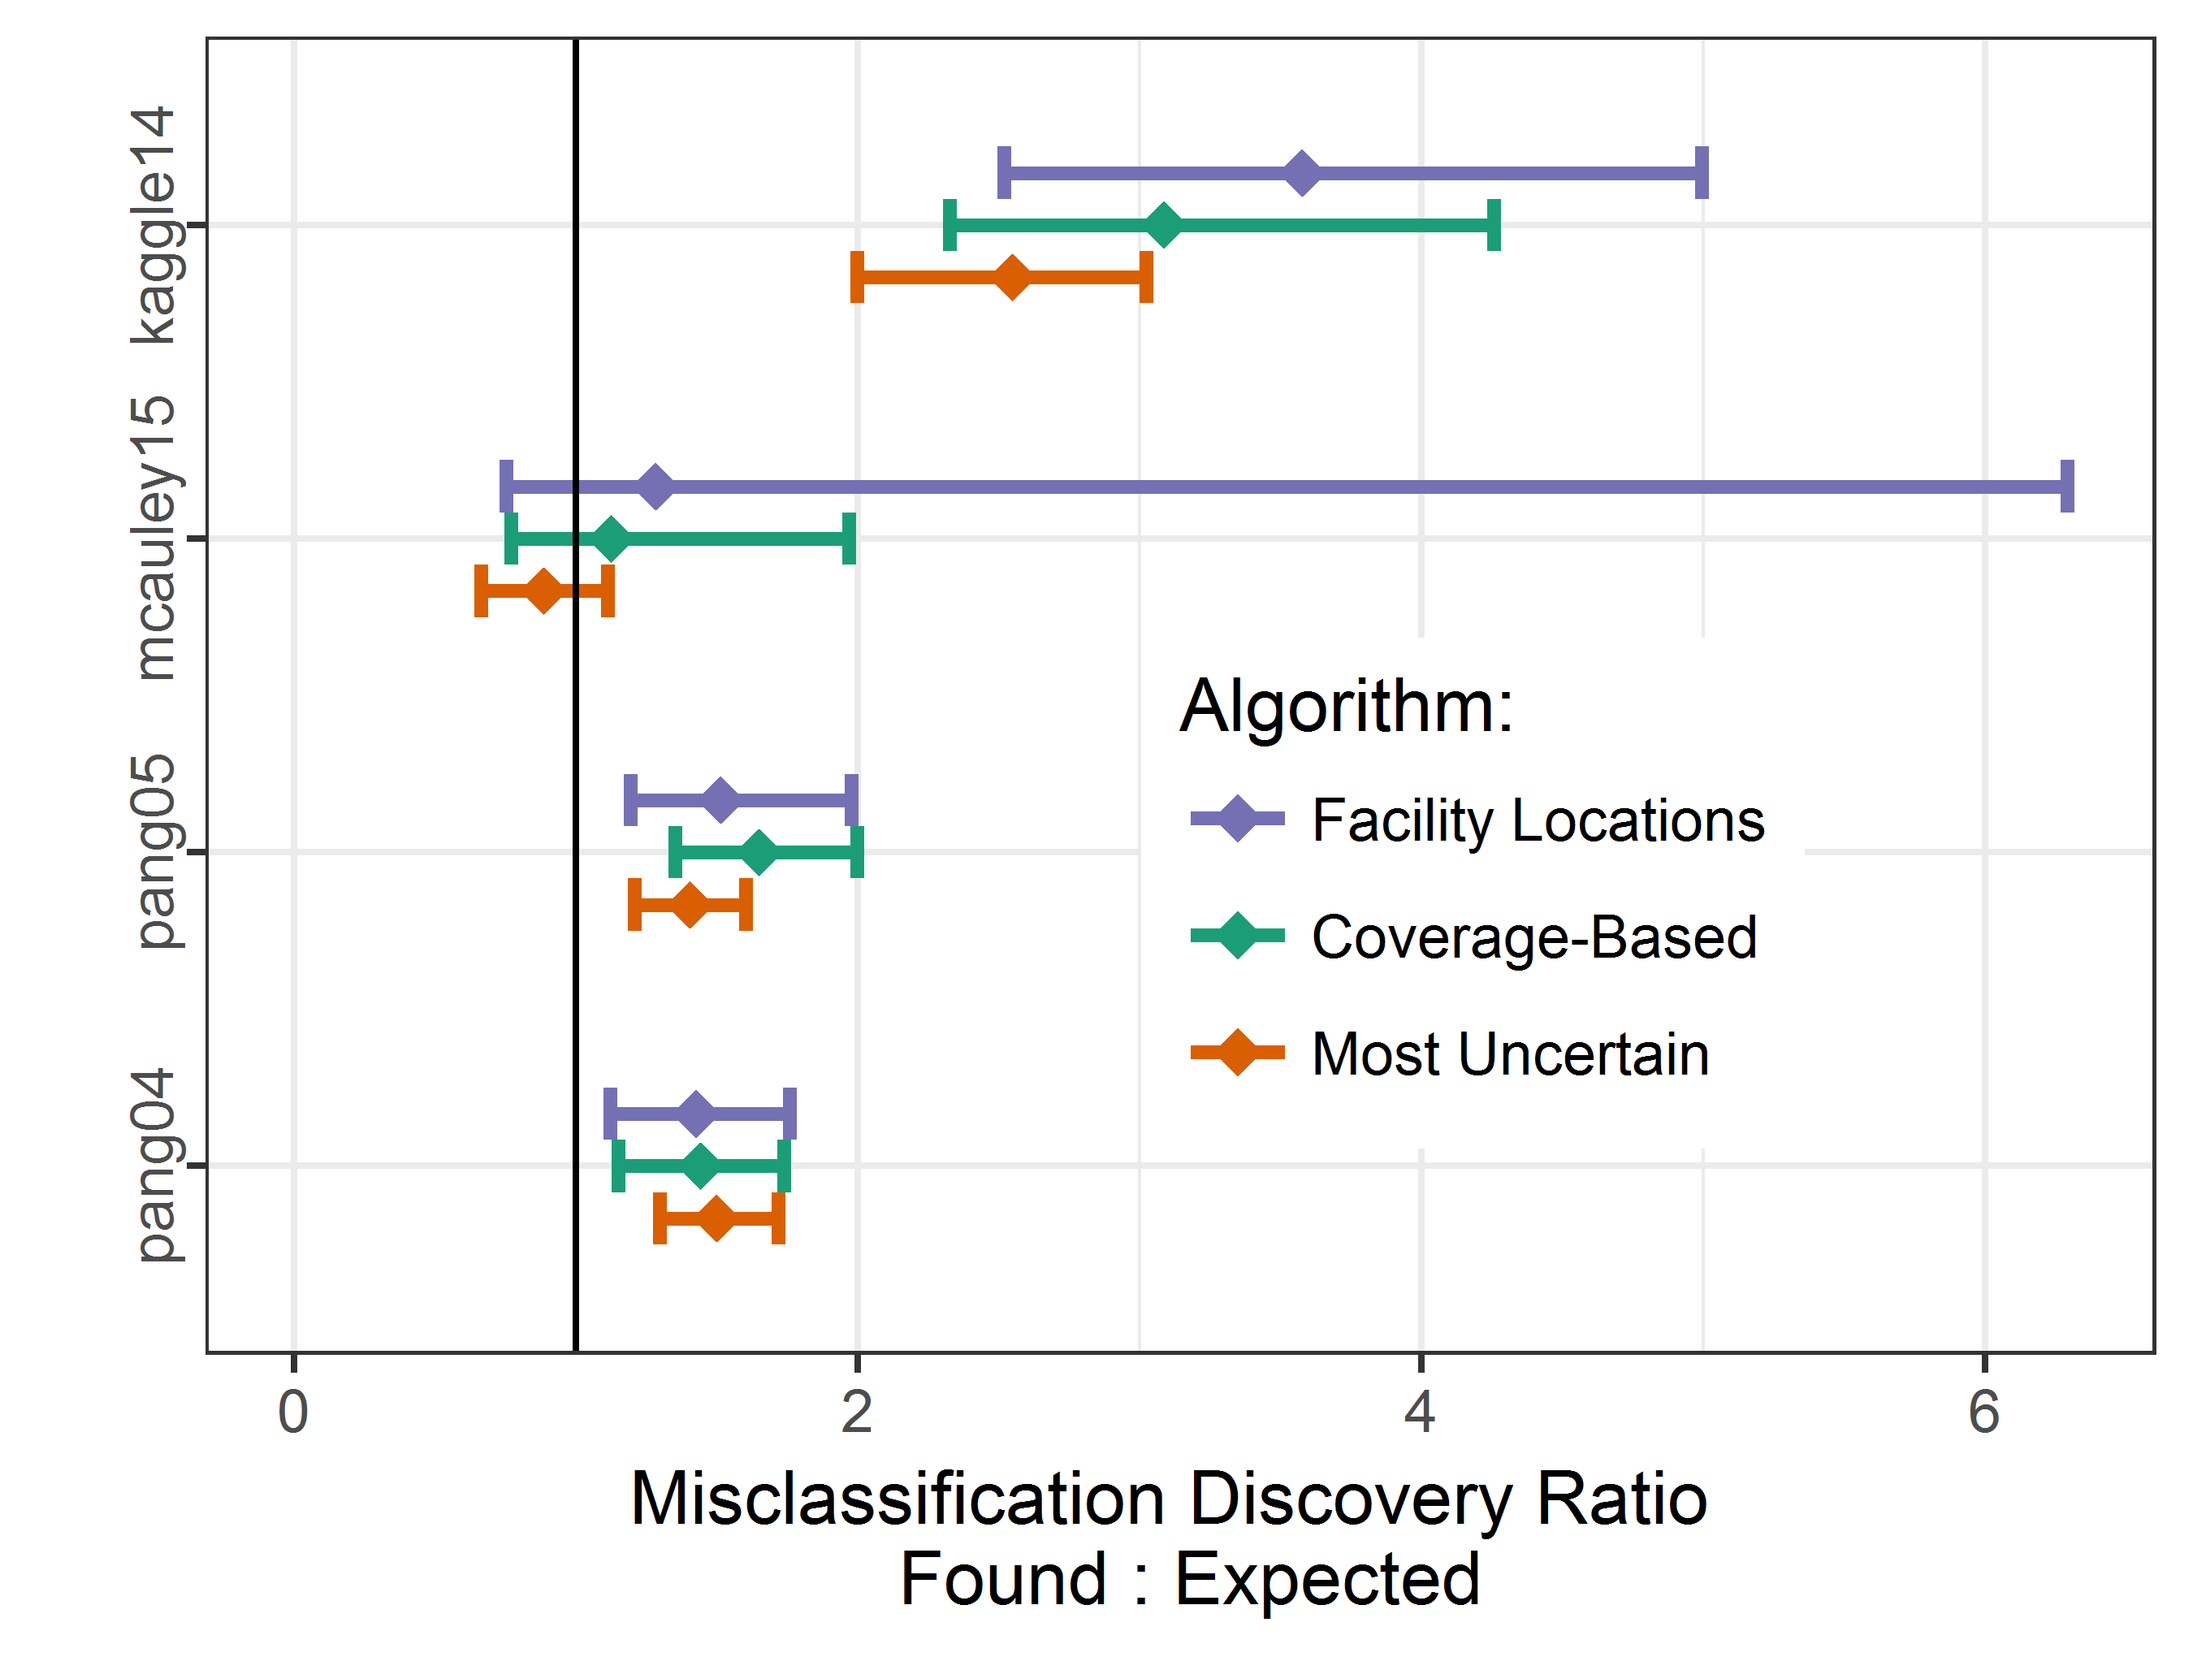
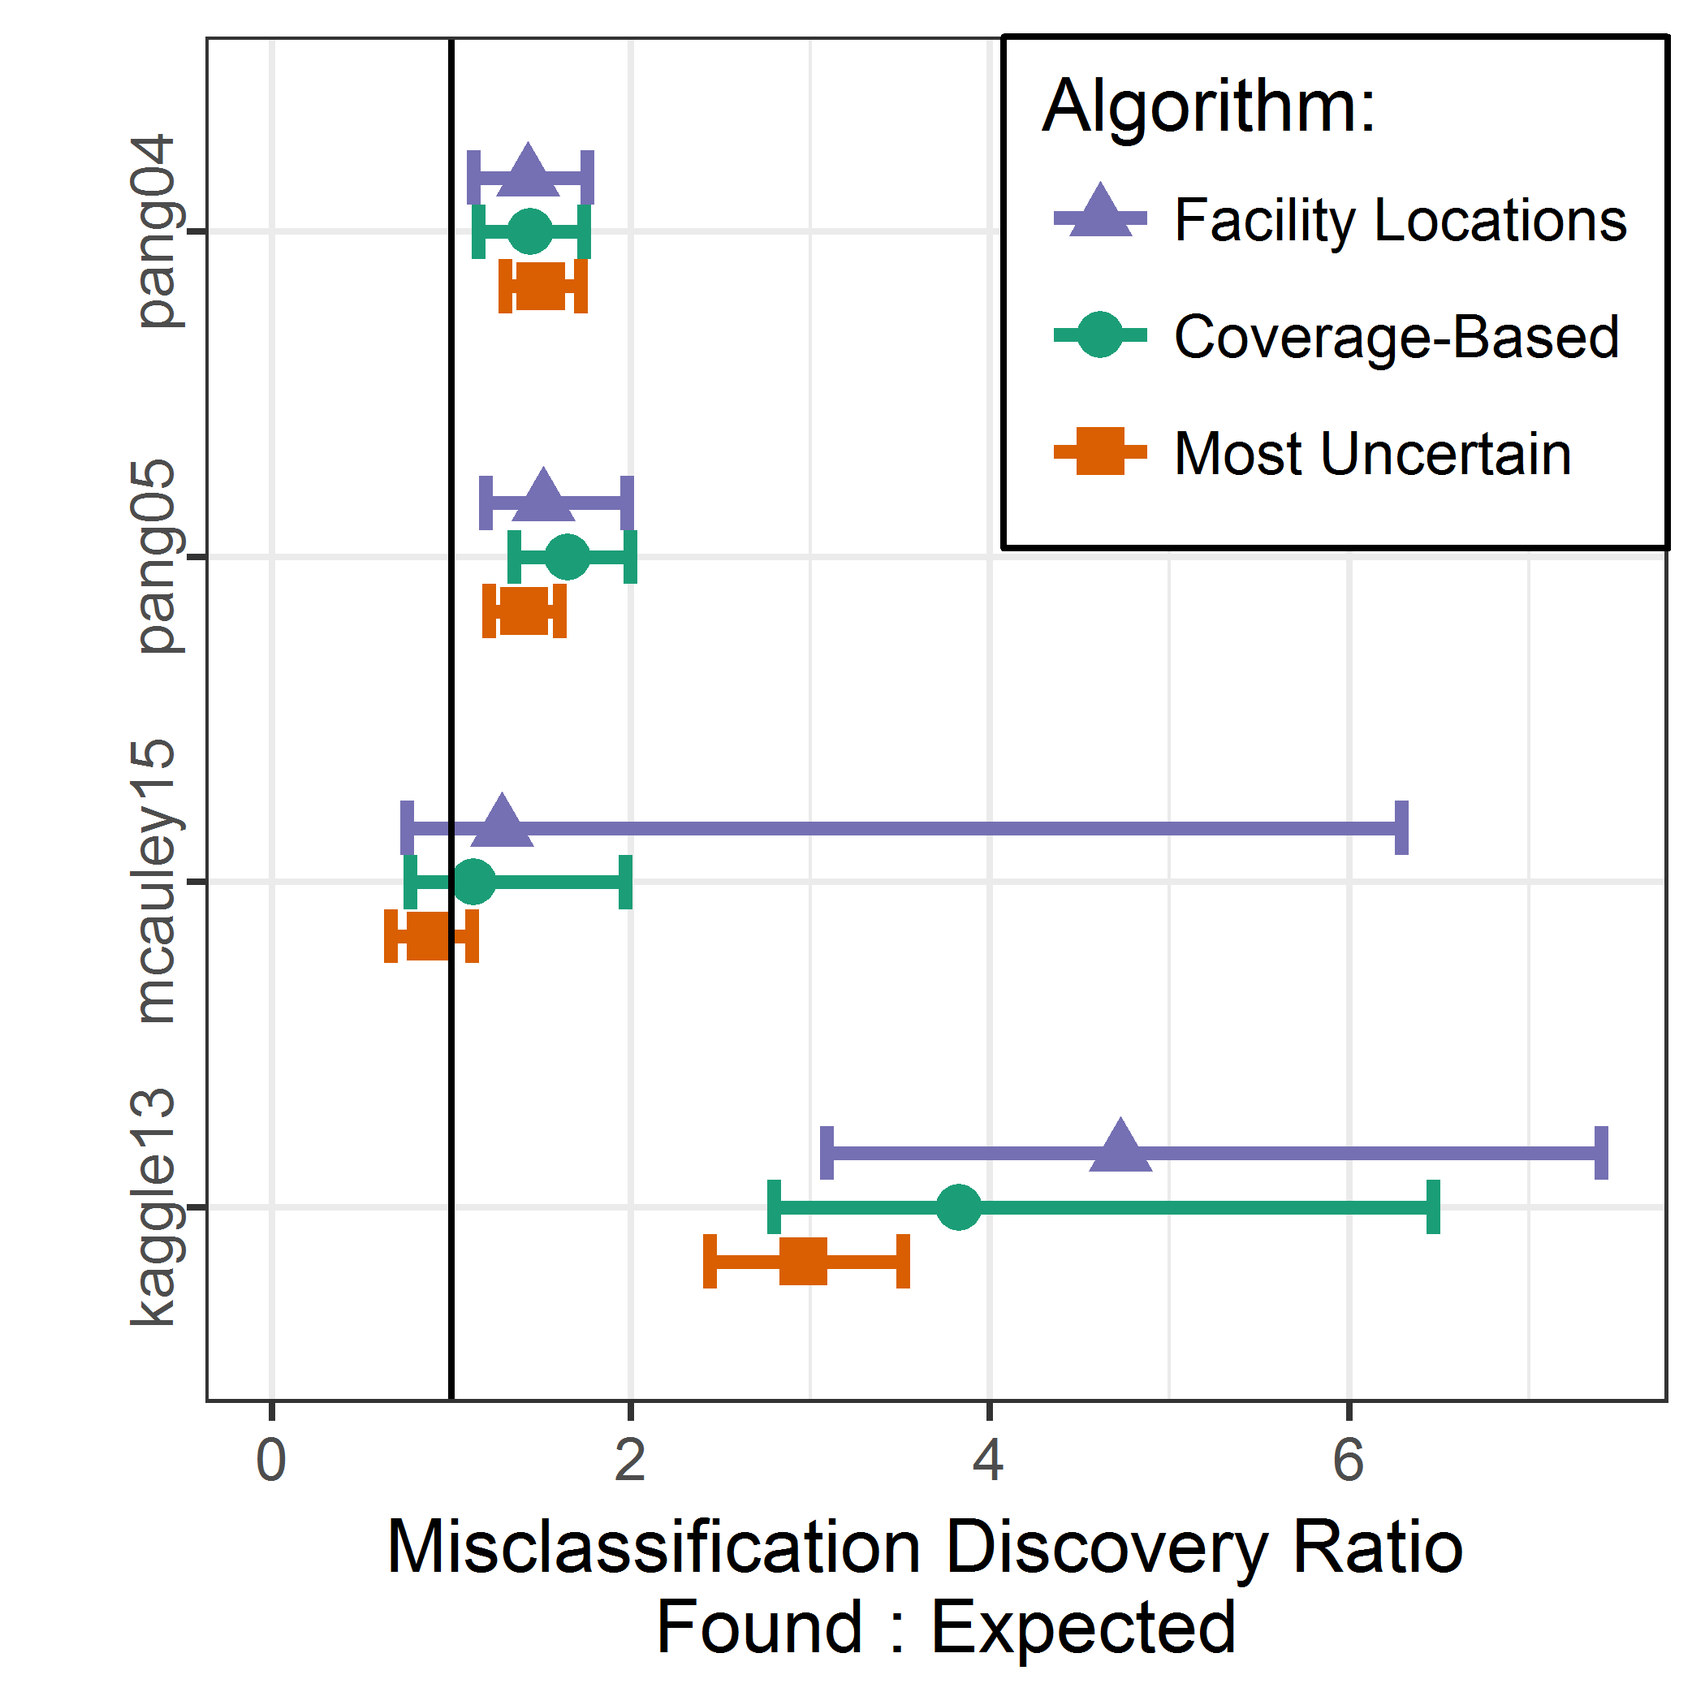
results revision

Changed region(s): [[0.0619, 0.0, 0.9905, 0.9882], [0.5262, 0.5559, 0.8048, 0.5868]]

diff --git a/writeups/AAAI/build/MaurerBennetteAAAI.tex b/writeups/AAAI/build/MaurerBennetteAAAI.tex
@@ -185,7 +185,7 @@ We empirically evaluate our facility location utility model by applying Algorith
 
 Figure~\ref{fig:overconf} displays the overconfidence of the models using a cubic-splines fitted between the indicator of correct classification an the confidence value in each test dataset to obtain an empirical estimates of the true rates of correct classification. We see that the models from the Pang04 and Pang05 datasets are most overconfident for points with relatively low confidence values, thus we would expect the a simple sequential search of the most-uncertain points to provide high facility locations utility in these cases. Whereas the predictions for McCauley15 and Kaggle14 are most overconfident in the highest confidence range, thus the most-uncertain search should provide low facility locations utility in these cases. We see that these four data sets represent fairly different profiles of overconfidence, thus present good variety for evaluating characteristics of the facility locations utility model. 
 
-\km{As with the evaluation of the coverage-based utility, we run the facility locations queries with on 1000 random samples of size n=1000 from each of the datasets, using a budget B=100. In the following subsections we detail three evaluations of the proposed methods: the utility outcomes of the facility locations queries in comparison to the most-uncertain search method, separating the reward and distance components facility locations searches, and exploring the relative efficiency of queries to discover overconfident points.}
+\km{As with the evaluation of the coverage-based utility, we run the facility locations queries with on 1000 random samples of size n=1000 from each of the datasets, using a budget B=100. In the following subsections we evaluate the utility outcomes of the facility locations queries in comparison to the most-uncertain search method, and exploring the relative efficiency of queries to discover overconfident points.}
 
 \subsection{Facility Location Utility Outcomes}
 
@@ -200,32 +200,13 @@ To evaluate the queries generated by the facility locations utility model we col
 
 In Figure~\ref{fig:flutil}, we see that the most-uncertain selection method – that begins its search with points with confidence values just above $\tau$=.65 – provides the strongest utility for the pang04 case, as is desired, because these points are also shown to be most overconfident. The facility locations utility outcomes from using the logistic-based optimization were typically slightly lower. For the pang05 case where the overconfidence is skewed right but relatively ubiquitous, we again find very comparable utility between the logistic-based and the most-uncertain queries. For the mcauley15 where overconfidence is heavily skewed left, we now see inconsistent but strong facility location utility outcomes from the facility locations search, and consistently low utility outcomes from the most-uncertain queries. \km{In the last case of kaggle14 where the overconfidence is skewed left but relatively ubiquitous, the facility locations search provided less consistent, but typically stronger utility than most-uncertain searches}. 
 
-\subsection{Separating Utility Components}
- 
-\km{explore distance vs reward components here}
-
 \subsection{Efficient Discovery of Overconfidence}
 
-Lastly we compare the queries gathered by the coverage-based utility algorithm and facility locations utility algorithm. Given that both rely on greedy selection relative to their own utility function, it does not make sense to compare their selections on the utility values directly. Instead we compare the efficiency of the search for UUs, using a summary statistics that we call the \textit{standardized discovery ratio} (SDR). The SDR is an adaptation of the \textit{standardized mortality ratio} used in biostatistics to evaluate the mortality rate for a given sample of patients, which standardizing using their initial risk of death (\km{Bernard and Rosner, 1990; Taylor, 2013}). In our case we use an analog that evalues the misclassification rate, standardized by the initial model confidence. The SDR for a set of queried points is computed as
+Secondly, we compare the queries gathered by the coverage-based utility algorithm and facility locations utility algorithm. Given that both rely on greedy selection optimized relative to their own utility function, it does not make sense to compare their selections on the utility values directly. Instead we compare the efficiency of the search for UUs, using a summary statistics that we call the \textit{standardized discovery ratio} (SDR). The SDR is an adaptation of the \textit{standardized mortality ratio} used in biostatistics to evaluate the mortality rate for a given sample of patients, which standardizing using their initial risk of death (\km{Bernard and Rosner, 1990; Taylor, 2013}). In our case we use an analog that evalues the misclassification rate, standardized by the initial model confidence. The SDR is computed as
+$$ ||S|| / \sum_{x=1}^B(1- c_x) $$
+thus counting the number of discovered misclassifications, divided by the number of misclassifications expected given the confidence values of the points queried. The SDR can be interpreted as the number of time more misclassifications that were found than were expected based on model confidence. 
 
-%% latex table generated in R 3.4.1 by xtable 1.8-2 package
-%% Tue Aug 21 09:33:32 2018
-%\begin{table}[ht]
-%\centering
-%\begin{tabular}{llll}
-%  \hline
-%dataset & Most Uncertain & Coverage-Based & Facility Locations \\ 
-%  \hline
-%pang04 & 1.53 (1.33,1.71) & 1.47 (1.23,1.67) & 1.43 (1.14,1.69) \\ 
-%  pang05 & 1.41 (1.21,1.56) & 1.66 (1.35,2.06) & 1.54 (1.16,2.08) \\ 
-%  mcauley15 & 0.89 (0.71,1.08) & 1.09 (0.83,1.61) & 1.27 (0.76,8.08) \\ 
-%  kaggle14 & 2.55 (2,3.02) & 3.09 (2.33,4.26) & 3.58 (2.52,4.99) \\ 
-%   \hline
-%\end{tabular}
-%  \caption{Standardized Discovery Ratio.}
-%  \label{tab:sdr}
-%\end{table}
-
+\km{In Figure~\ref{fig:sdr} compare the Monte Carlo medians and 90\%  central intervals for the SDR values associated with 1000 random samples of size n=1000 from each of the datasets, using each of the three query algorithms: facility locations, coverage-based, and most uncertain. The SDR intervals for pang04 and pang 05 reveal that all three algorithms are similarly efficient at discovering overconficent UUs in situations where the overconfident points fall just beyond the defined threshold, $\tau = .65$. The SDR intervals for mcauley15 and kaggle13, where overconfidence was most prevalent for points far beyond the threshold, the facility locations utilty algorithm typically provides the most efficient discovery of overconfident points. For kaggle13, the median SDR for the facility locations algorithm is 1.2 times larger than the coverage-based utilty algorithm and 1.6 times larger than the most uncertain algorithm.}
 
 \begin{figure}[hbtp]
   \includegraphics[width=.49\textwidth]{../experimentsAndPlots/discoveryRatioPlaceholder.png}
